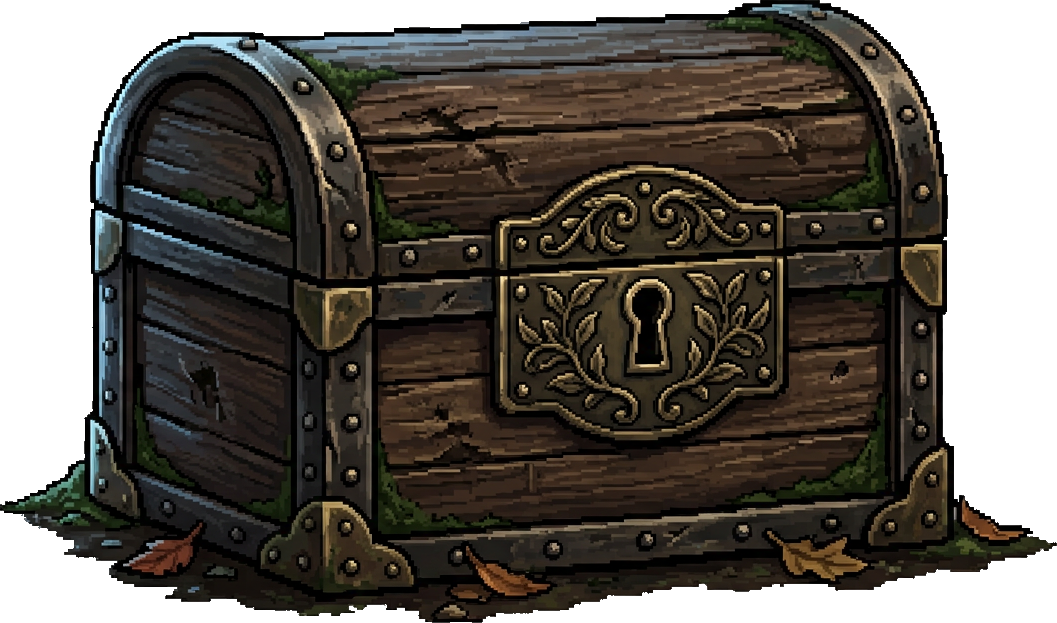
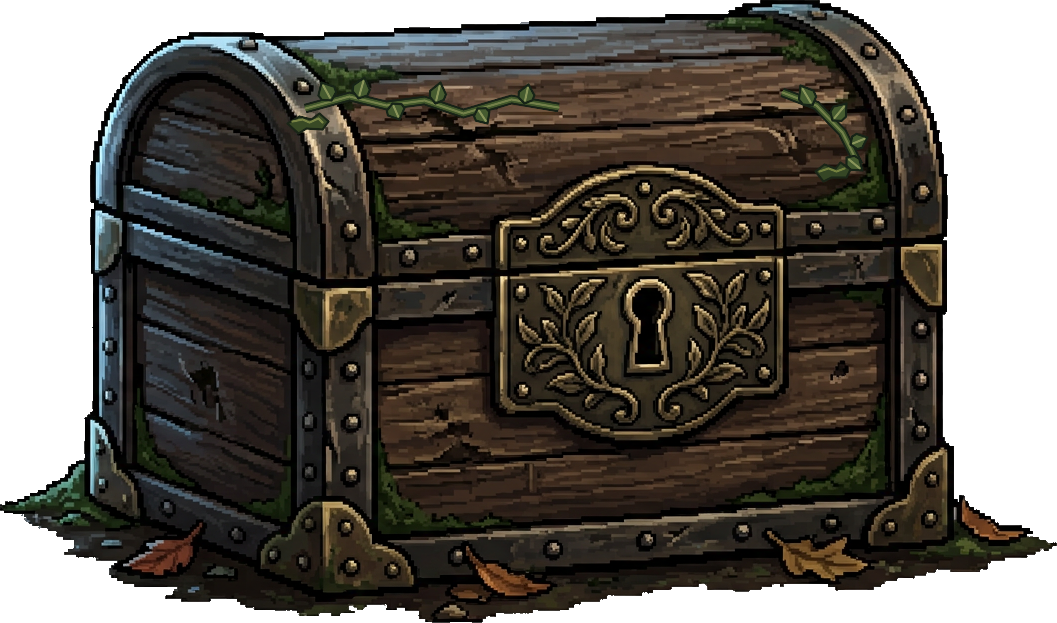
Overgrow chest, add interior reveal and battery bars

Changed region(s): [[0.281, 0.122, 0.5307, 0.2135], [0.7493, 0.122, 0.843, 0.305]]

diff --git a/scripts/world/room5/LockpickPuzzle.cs b/scripts/world/room5/LockpickPuzzle.cs
@@ -40,7 +40,6 @@ public partial class LockpickPuzzle : Node2D
     private const string VentCrawlScenePath = "res://scenes/world/vent_crawl.tscn";
     private const string BasementScenePath = "res://scenes/world/basement.tscn";
     private const string HedgeMazeChestBackgroundPath = "res://assets/images/hedge/lockpick_chest_bg.png";
-    private const string HedgeMazeChestRevealPath = "res://assets/images/hedge/props/lockbox_chest_open.png";
     private const string HedgeMazeScenePath = "res://scenes/world/hedge_maze.tscn";
     private const float MaxPickDegrees = 78f;
     private const float PlugOpenDegrees = 90f;
@@ -88,6 +87,15 @@ public partial class LockpickPuzzle : Node2D
         "Five gone. The pin is still there; forcing it won't make it kinder.",
         "Six picks gone. One left in the roll. Slow hands, Mara.",
     ];
+    private static readonly string[] GardenSnapLines =
+    [
+        "The pick gives with a little tick. I pushed too hard; ease off and try the pin again.",
+        "Another pick gone. The brass is stubborn, not worth forcing. Breathe, then listen.",
+        "Third pick. I can still take my time with this lock.",
+        "That one snapped too. Ease the tension before I turn again.",
+        "Five gone. The pin is still there; forcing it won't make it kinder.",
+        "Six picks gone. One left in the roll. Slow hands, Mara.",
+    ];
 
     private static readonly Rect2 RewindRect = new(216, 468, 350, 54);
     private static readonly Rect2 LetGoRect = new(586, 468, 350, 54);
@@ -125,7 +133,6 @@ public partial class LockpickPuzzle : Node2D
     ];
 
     private Texture2D _background;
-    private Texture2D _chestRewardTexture;
     private FontFile _font;
     private Label _titleLabel;
     private Label _helpLabel;
@@ -192,8 +199,6 @@ public partial class LockpickPuzzle : Node2D
             (gs.HasFlag("lockpick_target_trunk") ||
              (!gs.HasFlag("lockpick_target_vent") && gs.HasFlag("room5_vent_open")));
         _background = GD.Load<Texture2D>(_targetGardenChest ? HedgeMazeChestBackgroundPath : BackgroundPath);
-        if (_targetGardenChest)
-            _chestRewardTexture = GD.Load<Texture2D>(HedgeMazeChestRevealPath);
         _font = GD.Load<FontFile>(FontPath);
         _hasFineWrench = gs?.HasFlag("item_fine_tension_wrench") ?? false;
         _rng.Randomize();
@@ -214,11 +219,11 @@ public partial class LockpickPuzzle : Node2D
     {
         if (_targetGardenChest)
         {
-            // The leaf-plate chest has four narrower, differently spaced
-            // pin gates. It keeps the tactile pick logic, not the house-lock panic.
-            _layerEnds = [24f, 45f, 68f, PlugOpenDegrees];
-            _layerTolerances = [11f, 9f, 7.5f, 6f];
-            _layerStressScales = [0.8f, 0.9f, 1f, 1.08f];
+            // The garden chest has one simple pin layer and keeps the
+            // tactile pick logic, without the house-lock panic sequence.
+            _layerEnds = [PlugOpenDegrees];
+            _layerTolerances = [8f];
+            _layerStressScales = [1f];
         }
         else if (_targetTrunk)
         {
@@ -368,7 +373,7 @@ public partial class LockpickPuzzle : Node2D
 
             if (_targetGardenChest)
             {
-                await Say("A leaf worked into the brass, a narrow keyway at its heart. Four little pins, maybe. This one belongs to the garden, not the house.");
+                await Say("A leaf worked into the brass, a narrow keyway at its heart. One little pin, perhaps. This one belongs to the garden, not the house.");
             }
             else if (_targetTrunk)
             {
@@ -1261,11 +1266,173 @@ public partial class LockpickPuzzle : Node2D
             DrawSnapFlash();
         }
 
-        if (_targetGardenChest && _state == PickState.Success && _chestRewardTexture != null)
+        if (_targetGardenChest && _state == PickState.Success)
+            DrawGardenChestReveal(screen);
+    }
+
+    /// <summary>A close, slightly top-down view into the chest after
+    /// the leaf-brass lock gives: raised lid behind the mouth, deep
+    /// velvet-lined cavity, and the three spare cells resting inside.</summary>
+    private void DrawGardenChestReveal(Rect2 screen)
+    {
+        DrawRect(screen, new Color(0.035f, 0.043f, 0.032f, 0.98f), true);
+        DrawRect(new Rect2(34, 28, 1084, 592), new Color(0.07f, 0.082f, 0.057f, 0.72f), true);
+        DrawRect(new Rect2(34, 28, 1084, 592), new Color(0.48f, 0.46f, 0.31f, 0.42f), false, 2f);
+
+        // The opened lid rises behind the box; its inner planks and
+        // framing remain visible above the opening, as with the house cabinets.
+        DrawRevealPolygon(
+            [new(276, 52), new(876, 52), new(930, 260), new(222, 260)],
+            new Color(0.19f, 0.13f, 0.08f), new Color(0.57f, 0.40f, 0.23f), 5f);
+        DrawRevealPolygon(
+            [new(305, 75), new(847, 75), new(884, 228), new(270, 228)],
+            new Color(0.115f, 0.078f, 0.052f), new Color(0.33f, 0.24f, 0.14f), 3f);
+        DrawLine(new Vector2(294, 130), new Vector2(865, 130),
+            new Color(0.29f, 0.19f, 0.12f), 12f, true);
+        DrawLine(new Vector2(282, 184), new Vector2(877, 184),
+            new Color(0.24f, 0.16f, 0.10f), 10f, true);
+        DrawLine(new Vector2(294, 132), new Vector2(865, 132),
+            new Color(0.42f, 0.29f, 0.17f, 0.8f), 2f, true);
+        DrawLine(new Vector2(282, 186), new Vector2(877, 186),
+            new Color(0.39f, 0.26f, 0.15f, 0.72f), 2f, true);
+        DrawRevealPolygon(
+            [new(494, 86), new(658, 86), new(679, 122), new(474, 122)],
+            new Color(0.40f, 0.34f, 0.18f), new Color(0.70f, 0.58f, 0.31f), 3f);
+        DrawRevealLeaf(new Vector2(545, 103), new Vector2(520, 90), 15f);
+        DrawRevealLeaf(new Vector2(575, 103), new Vector2(598, 90), 15f);
+        DrawRevealLeaf(new Vector2(610, 104), new Vector2(628, 117), 13f);
+
+        // Moss and ivy creep over the lid edges, but leave its old grain
+        // and the brasswork legible.
+        DrawLine(new Vector2(310, 91), new Vector2(382, 110), new Color(0.20f, 0.28f, 0.14f), 7f, true);
+        DrawLine(new Vector2(382, 110), new Vector2(443, 101), new Color(0.20f, 0.28f, 0.14f), 7f, true);
+        DrawRevealLeaf(new Vector2(336, 98), new Vector2(321, 78), 18f);
+        DrawRevealLeaf(new Vector2(364, 106), new Vector2(372, 84), 17f);
+        DrawRevealLeaf(new Vector2(397, 108), new Vector2(411, 128), 18f);
+        DrawRevealLeaf(new Vector2(424, 104), new Vector2(440, 85), 16f);
+        DrawLine(new Vector2(782, 97), new Vector2(830, 120), new Color(0.20f, 0.28f, 0.14f), 7f, true);
+        DrawLine(new Vector2(830, 120), new Vector2(847, 164), new Color(0.20f, 0.28f, 0.14f), 7f, true);
+        DrawRevealLeaf(new Vector2(799, 104), new Vector2(790, 82), 17f);
+        DrawRevealLeaf(new Vector2(822, 117), new Vector2(842, 103), 16f);
+        DrawRevealLeaf(new Vector2(836, 139), new Vector2(817, 151), 15f);
+        DrawRevealLeaf(new Vector2(846, 158), new Vector2(862, 171), 14f);
+
+        // Main chest body, with the cavity drawn before the near rim so
+        // the front lip reads as wood in front of the lining.
+        DrawRevealPolygon(
+            [new(218, 244), new(934, 244), new(994, 548), new(158, 548)],
+            new Color(0.20f, 0.135f, 0.084f), new Color(0.56f, 0.39f, 0.22f), 6f);
+
+        // Deep, widening mouth: raised side walls, velvet floor and a
+        // front-facing inner edge make the viewer look down inside it.
+        DrawRevealPolygon(
+            [new(289, 244), new(861, 244), new(950, 402), new(202, 402)],
+            new Color(0.43f, 0.29f, 0.17f), new Color(0.68f, 0.49f, 0.28f), 5f);
+        DrawRevealPolygon(
+            [new(331, 263), new(819, 263), new(884, 378), new(270, 378)],
+            new Color(0.07f, 0.044f, 0.04f), new Color(0.22f, 0.15f, 0.10f), 3f);
+        DrawRevealPolygon(
+            [new(354, 278), new(796, 278), new(851, 364), new(303, 364)],
+            new Color(0.20f, 0.075f, 0.105f), new Color(0.39f, 0.17f, 0.20f), 2f);
+        DrawLine(new Vector2(370, 294), new Vector2(781, 294),
+            new Color(0.34f, 0.15f, 0.17f, 0.85f), 3f, true);
+        DrawLine(new Vector2(323, 349), new Vector2(831, 349),
+            new Color(0.12f, 0.055f, 0.08f, 0.9f), 3f, true);
+
+        // Three spare cells lie across the velvet, with metal ends catching
+        // just a little of the warm light from the room.
+        DrawRevealBattery(new Vector2(425, 315), 0.25f);
+        DrawRevealBattery(new Vector2(574, 321), 0.25f);
+        DrawRevealBattery(new Vector2(721, 315), 0.25f);
+
+        // Near rim and front panel.
+        DrawRevealPolygon(
+            [new(202, 378), new(950, 378), new(994, 414), new(158, 414)],
+            new Color(0.35f, 0.23f, 0.14f), new Color(0.68f, 0.48f, 0.27f), 4f);
+        DrawRevealPolygon(
+            [new(158, 410), new(994, 410), new(905, 573), new(247, 573)],
+            new Color(0.27f, 0.18f, 0.11f), new Color(0.59f, 0.41f, 0.23f), 5f);
+        DrawLine(new Vector2(197, 445), new Vector2(954, 445),
+            new Color(0.15f, 0.10f, 0.063f), 7f, true);
+        DrawLine(new Vector2(232, 533), new Vector2(924, 533),
+            new Color(0.13f, 0.085f, 0.05f), 8f, true);
+
+        // Leaf-carved hasp on the near face, now unlocked.
+        DrawRevealPolygon(
+            [new(510, 418), new(642, 418), new(655, 493), new(498, 493)],
+            new Color(0.42f, 0.34f, 0.18f), new Color(0.72f, 0.59f, 0.32f), 3f);
+        DrawCircle(new Vector2(576, 448), 13f, new Color(0.04f, 0.035f, 0.025f));
+        DrawRect(new Rect2(570, 448, 12, 27), new Color(0.04f, 0.035f, 0.025f), true);
+        for (int side = -1; side <= 1; side += 2)
         {
-            DrawRect(screen, new Color(0.025f, 0.03f, 0.02f, 0.82f), true);
-            DrawTextureRect(_chestRewardTexture, screen, false);
+            Vector2 stem = new(576 + side * 30, 479);
+            DrawLine(stem, stem + new Vector2(side * 22, -25),
+                new Color(0.23f, 0.27f, 0.13f), 4f, true);
+            DrawRevealLeaf(stem + new Vector2(side * 7, -7), stem + new Vector2(side * 25, -26), 13f);
+            DrawRevealLeaf(stem + new Vector2(side * 12, -14), stem + new Vector2(side * 27, -8), 12f);
         }
+
+        // The lid hinges and small brass corner studs anchor the close-up.
+        for (int i = 0; i < 5; i++)
+        {
+            float x = 310f + i * 132f;
+            DrawRect(new Rect2(x, 249, 48, 10), new Color(0.43f, 0.34f, 0.20f), true);
+            DrawCircle(new Vector2(x + 8, 254), 4f, new Color(0.78f, 0.65f, 0.36f));
+            DrawCircle(new Vector2(x + 40, 254), 4f, new Color(0.78f, 0.65f, 0.36f));
+        }
+        DrawRect(new Rect2(0, 0, 1152, 20), new Color(0.015f, 0.018f, 0.012f, 0.48f), true);
+        DrawRect(new Rect2(0, 628, 1152, 20), new Color(0.015f, 0.018f, 0.012f, 0.48f), true);
+    }
+
+    private void DrawRevealPolygon(Vector2[] points, Color fill, Color outline, float outlineWidth = 2f)
+    {
+        DrawColoredPolygon(points, fill);
+        for (int i = 0; i < points.Length; i++)
+            DrawLine(points[i], points[(i + 1) % points.Length], outline, outlineWidth, true);
+    }
+
+    private void DrawRevealLeaf(Vector2 start, Vector2 tip, float width)
+    {
+        Vector2 axis = (tip - start).Normalized();
+        Vector2 side = new(-axis.Y, axis.X);
+        Vector2 mid = start.Lerp(tip, 0.52f);
+        Vector2[] leaf =
+        [
+            start,
+            start.Lerp(tip, 0.26f) + side * width * 0.45f,
+            mid + side * width * 0.5f,
+            tip,
+            mid - side * width * 0.5f,
+            start.Lerp(tip, 0.26f) - side * width * 0.45f,
+        ];
+        DrawRevealPolygon(leaf, new Color(0.25f, 0.34f, 0.16f),
+            new Color(0.105f, 0.15f, 0.075f), 2f);
+        DrawLine(start.Lerp(tip, 0.2f), tip,
+            new Color(0.57f, 0.61f, 0.31f, 0.92f), 2f, true);
+    }
+
+    private void DrawRevealBattery(Vector2 center, float angle)
+    {
+        Vector2 axis = new(Mathf.Cos(angle), Mathf.Sin(angle));
+        Vector2 side = new(-axis.Y, axis.X);
+        Vector2 left = center - axis * 48f;
+        Vector2 right = center + axis * 48f;
+        float half = 12f;
+        DrawRevealPolygon(
+            [left - side * half + new Vector2(2, 4), right - side * half + new Vector2(2, 4),
+             right + side * half + new Vector2(2, 4), left + side * half + new Vector2(2, 4)],
+            new Color(0.025f, 0.02f, 0.018f, 0.8f), new Color(0.025f, 0.02f, 0.018f, 0.8f), 1f);
+        DrawRevealPolygon(
+            [left - side * half, right - side * half, right + side * half, left + side * half],
+            new Color(0.22f, 0.29f, 0.21f), new Color(0.10f, 0.13f, 0.10f), 3f);
+        DrawLine(left + side * 5f, right + side * 5f,
+            new Color(0.48f, 0.55f, 0.35f, 0.8f), 3f, true);
+        DrawLine(left - side * 6f, left + side * 6f,
+            new Color(0.73f, 0.53f, 0.28f), 8f, true);
+        DrawLine(right - side * 6f, right + side * 6f,
+            new Color(0.73f, 0.53f, 0.28f), 8f, true);
+        DrawCircle(right, 6f, new Color(0.76f, 0.77f, 0.68f));
+        DrawCircle(right, 3f, new Color(0.38f, 0.4f, 0.35f));
     }
 
     /// <summary>How far Mara view of the lock is knocked off

diff --git a/scripts/ui/GameUI.cs b/scripts/ui/GameUI.cs
@@ -56,7 +56,7 @@ public partial class GameUI : CanvasLayer
     private HBoxContainer _clarityPips;
     private Label _shardLabel;
     private Label _flashlightBatteryLabel;
-    private ProgressBar _flashlightBatteryBar;
+    private HBoxContainer _flashlightBatteryBars;
 
     // Bag / inventory (global replacement for the old per-room inventory sprites)
     private Button _bagButton;
@@ -4410,7 +4410,7 @@ public partial class GameUI : CanvasLayer
 
     private void RefreshFlashlightBatteryHud()
     {
-        if (_flashlightBatteryLabel == null || _flashlightBatteryBar == null)
+        if (_flashlightBatteryLabel == null || _flashlightBatteryBars == null)
             return;
 
         var gs = GameState.Instance;
@@ -4418,37 +4418,48 @@ public partial class GameUI : CanvasLayer
         bool infinite = gs != null && gs.DevToolsEnabled &&
             (gs.DevInfiniteFlashlightBattery || gs.DevFreeFlashlight);
         _flashlightBatteryLabel.Visible = show;
-        _flashlightBatteryBar.Visible = show && !infinite;
+        _flashlightBatteryBars.Visible = show;
         if (!show || gs == null)
             return;
 
+        int spares = gs.FlashlightSpareCells;
+        string reserve = spares == 1 ? "1 spare cell" : $"{spares} spare cells";
         if (infinite)
         {
             _flashlightBatteryLabel.Text = "FLASHLIGHT · INFINITE BATTERY";
             _flashlightBatteryLabel.AddThemeColorOverride("font_color", new Color(0.78f, 0.9f, 0.76f));
-            return;
+        }
+        else
+        {
+            _flashlightBatteryLabel.Text = !gs.FlashlightHasCharge
+                ? $"FLASHLIGHT · EMPTY · {reserve}"
+                : gs.FlashlightBatteryLow
+                    ? $"FLASHLIGHT · LOW · {reserve}"
+                    : $"FLASHLIGHT · {reserve}";
+            _flashlightBatteryLabel.AddThemeColorOverride("font_color",
+                !gs.FlashlightHasCharge
+                    ? new Color(1f, 0.44f, 0.34f)
+                    : gs.FlashlightBatteryLow
+                        ? new Color(1f, 0.7f, 0.38f)
+                        : new Color(0.88f, 0.85f, 0.74f));
         }
 
-        int percent = Mathf.CeilToInt(gs.FlashlightBatteryFraction * 100f);
-        int spares = gs.FlashlightSpareCells;
-        string reserve = spares == 1 ? "1 spare" : $"{spares} spares";
-        _flashlightBatteryLabel.Text = !gs.FlashlightHasCharge
-            ? $"FLASHLIGHT · EMPTY · {reserve}"
-            : gs.FlashlightBatteryLow
-                ? $"FLASHLIGHT · LOW {percent}% · {reserve}"
-                : $"FLASHLIGHT · {percent}% · {reserve}";
-        _flashlightBatteryLabel.AddThemeColorOverride("font_color",
-            !gs.FlashlightHasCharge
-                ? new Color(1f, 0.44f, 0.34f)
-                : gs.FlashlightBatteryLow
-                    ? new Color(1f, 0.7f, 0.38f)
-                    : new Color(0.88f, 0.85f, 0.74f));
-        _flashlightBatteryBar.Value = gs.FlashlightBatteryFraction;
-        _flashlightBatteryBar.Modulate = !gs.FlashlightHasCharge
-            ? new Color(1f, 0.38f, 0.3f)
-            : gs.FlashlightBatteryLow
-                ? new Color(1f, 0.68f, 0.34f)
-                : Colors.White;
+        int barCount = _flashlightBatteryBars.GetChildCount();
+        int litBars = infinite
+            ? barCount
+            : Mathf.CeilToInt(gs.FlashlightBatteryFraction * barCount);
+        Color litColor = !gs.FlashlightHasCharge && !infinite
+            ? new Color(0.42f, 0.16f, 0.12f)
+            : gs.FlashlightBatteryLow && !infinite
+                ? new Color(0.92f, 0.57f, 0.25f)
+                : new Color(0.73f, 0.79f, 0.55f);
+        for (int i = 0; i < barCount; i++)
+        {
+            if (_flashlightBatteryBars.GetChild(i) is ColorRect segment)
+                segment.Color = i < litBars
+                    ? litColor
+                    : new Color(0.20f, 0.19f, 0.15f, 0.95f);
+        }
     }
 
     private void RefreshCorruptionShader()
@@ -4962,21 +4973,23 @@ public partial class GameUI : CanvasLayer
         _flashlightBatteryLabel = MakeLabel("", 16);
         _flashlightBatteryLabel.Visible = false;
         statusBox.AddChild(_flashlightBatteryLabel);
-        _flashlightBatteryBar = new ProgressBar
+        _flashlightBatteryBars = new HBoxContainer
         {
-            MinValue = 0,
-            MaxValue = 1,
-            Value = 1,
-            CustomMinimumSize = new Vector2(220, 6),
-            ShowPercentage = false,
+            CustomMinimumSize = new Vector2(190, 14),
             Visible = false,
             MouseFilter = Control.MouseFilterEnum.Ignore,
         };
-        _flashlightBatteryBar.AddThemeStyleboxOverride("background",
-            new StyleBoxFlat { BgColor = new Color(0.16f, 0.15f, 0.13f, 0.9f) });
-        _flashlightBatteryBar.AddThemeStyleboxOverride("fill",
-            new StyleBoxFlat { BgColor = new Color(0.84f, 0.78f, 0.62f, 0.95f) });
-        statusBox.AddChild(_flashlightBatteryBar);
+        _flashlightBatteryBars.AddThemeConstantOverride("separation", 4);
+        for (int i = 0; i < 8; i++)
+        {
+            _flashlightBatteryBars.AddChild(new ColorRect
+            {
+                CustomMinimumSize = new Vector2(19, 11),
+                Color = new Color(0.73f, 0.79f, 0.55f),
+                MouseFilter = Control.MouseFilterEnum.Ignore,
+            });
+        }
+        statusBox.AddChild(_flashlightBatteryBars);
         statusPanel.AddChild(statusBox);
         _hud.AddChild(statusPanel);
 

diff --git a/scripts/world/room6/HedgeMaze.cs b/scripts/world/room6/HedgeMaze.cs
@@ -440,7 +440,7 @@ public partial class HedgeMaze : Node2D
                 ? "The leaf-engraved chest stands open, its three spare flashlight cells gone from the velvet-dark lining."
                 : "A small walnut chest half-swallowed by the grass. Its brass plate curls like leaves around a narrow keyway; the hasp is still locked.",
             chestOpened ? LockboxEmptyTexturePath : LockboxTexturePath,
-            chestOpened ? 0.32f : 0.27f);
+            chestOpened ? 0.304f : 0.2565f);
         AddProp(PropKind.Lamp, new Vector2(4.5f, 2.5f), "Garden lamp",
             "A lamp on a post, wired to nothing I can see. The glass is cold. Somebody meant to light this garden once.",
             LampPostTexturePath, 1.18f);
